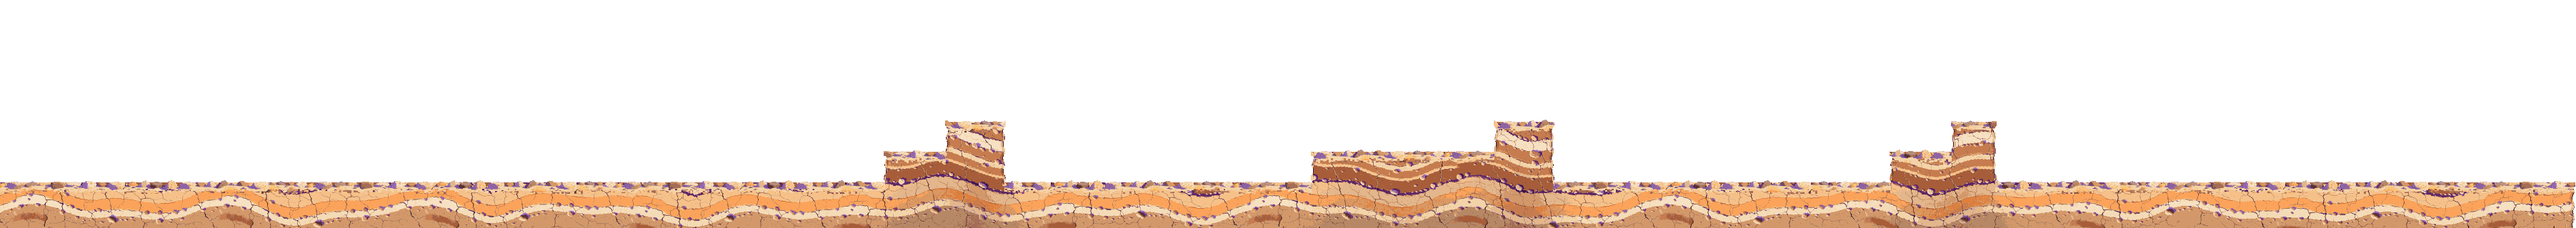
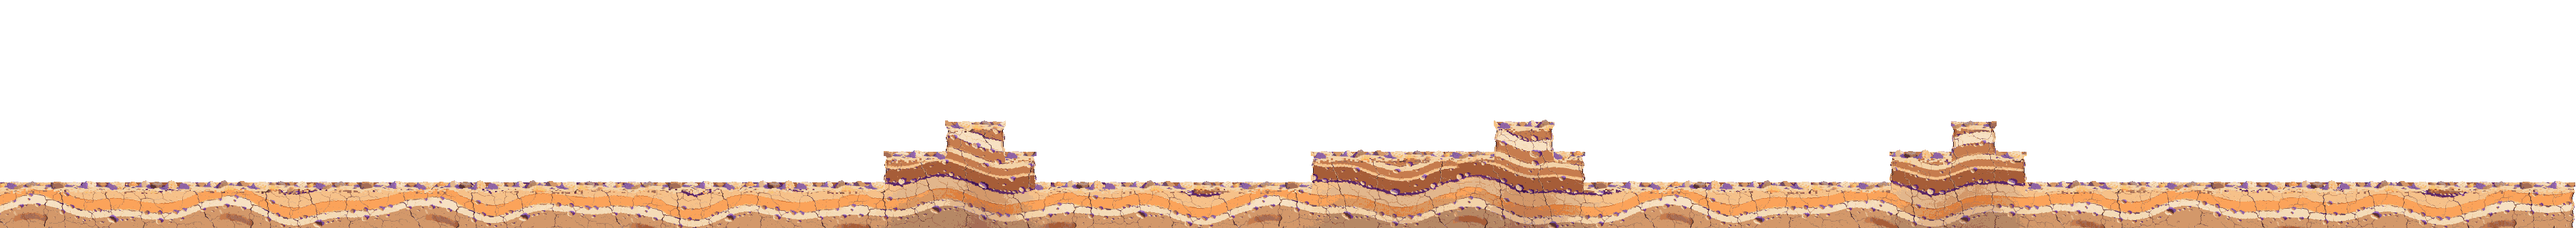
BACKLOG 32 (D296 amended): every DesertRoad ledge can be climbed back onto with one jump - a 2-tile step east of the dune, mesa and caravan rocks
Claude-Session: https://claude.ai/code/session_01A2gnDWaoeJGbj3GPH4dnCF

diff --git a/design/BACKLOG.md b/design/BACKLOG.md
@@ -246,7 +246,8 @@ Left: MayorHall (interior, `hall_body` / `hall_floor` materials not generated ye
     tokens HP/SP/XP — Sapega 2026-10-21 «HP, SP, XP так і залиш»). Voices: English greetings via Kokoro (D277), Ukrainian via a Piper voice whose
     licence allows release (check each voice's model card; never non-commercial weights); greeting picked by locale.
     Plan first: `design/localization_plan.md`.
-32. **Ledges you can get back onto** (Sapega 2026-10-21 «уступи мають бути такими, що я можу повернутись на них далі, бо немає
+32. ~~**Ledges you can get back onto**~~ — **done 2026-10-21** (D296 amended): a 2-tile step on the east side of the
+    dune rock, the mesa end rock and the caravan rock; `verify_road_sections` [5] climbs every top from both sides. (Sapega 2026-10-21 «уступи мають бути такими, що я можу повернутись на них далі, бо немає
     в нас подвійного стрибка»): every DesertRoad ledge (D296/D298) reachable again from where the hero ends up — steps within
     one jump on the way back too; a verify that walks/jumps back up each ledge with real input.
 33. **Chests** (Q2): a generated chest — closed, opening, open frames; opening it Kusakam raises the item overhead (a pickup
